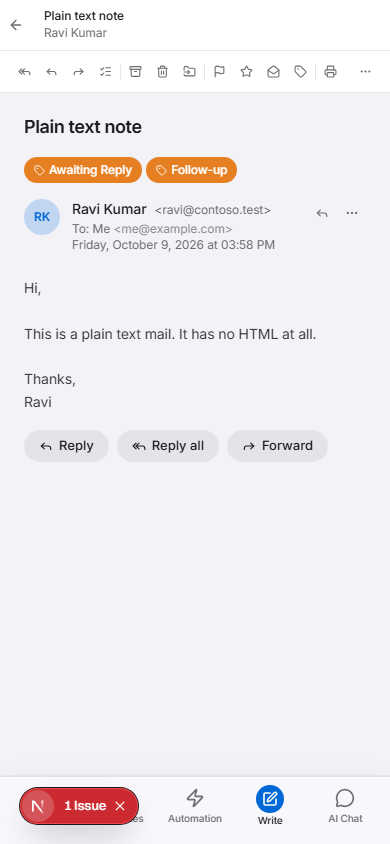
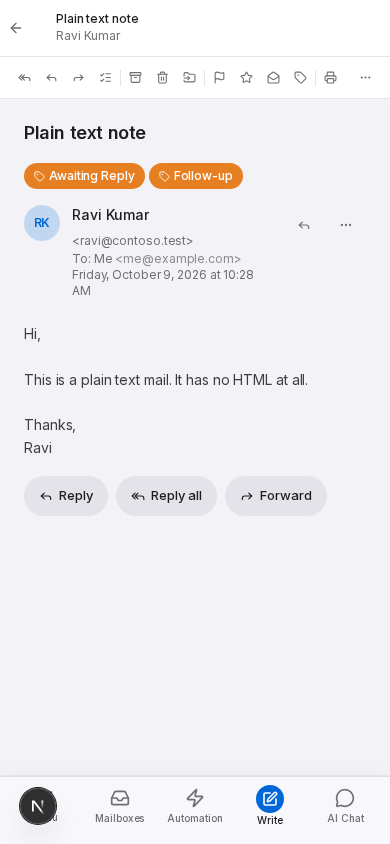
Task 3995 fix round 3 (V1): phone captures at 390 px show one row, Print in the menu
The stubbed visual rig took the pane, the toast, the move back and the
"..." menu again at 390 px, light and dark, and measured one row of
buttons in the bar of the pane. The flag-off pane was taken again with
the same rig, so the two compare. The report drops the two-row note.
The throwaway rig is deleted.

Claude-Session: https://claude.ai/code/session_01FS4QDZbEtkKAhvo52otntK

diff --git a/reports/email-done/index.html b/reports/email-done/index.html
@@ -67,6 +67,9 @@ function extra(title, note, files) {
   for (const [file, label] of files) g.appendChild(figure(file, label, false));
   out.append(h, p, g);
 }
+extra("2b. The \"...\" menu of the pane on a phone (fix round 3)",
+  "With the flag on, Print is the last item of this menu.",
+  [["pane-menu--phone-light.png", "Phone 390, light"], ["pane-menu--phone-dark.png", "Phone 390, dark"]]);
 extra("7. A call that fails", "The gateway refuses. The labels come back, and the page says why.",
   [["error--dark.png", "Dark, 1440"]]);
 extra("8. Keyboard: the focus on Done",
@@ -81,7 +84,8 @@ for (const line of [
   "Found and repaired: after Done, the reading pane kept the old labels of the open mail.",
   "The red \"1 Issue\" badge on the light phone menu comes from the development server. The capture with the flag off shows it too.",
   "Fix round 2 (2026-11-26): on a phone, Done in the bar of the pane is now an icon. The rig took the phone captures of sections 2, 5 and 6 again. The desktop bar did not change, so its captures stay.",
-  "Open defect: at 390 px the bar of the pane still has two rows. The Print icon goes to a second row. Before this round, three icons went to the second row.",
+  "Fix round 3 (2026-11-26): with the flag on, Print moves into the \"...\" menu of the pane on a phone, so the bar has one row at 390 px. The rig took the phone captures of sections 2, 5 and 6 again, light and dark, and measured one row. It took the phone captures of \"Before (flag off): the reading pane\" again with the same rig, so the two compare. The flag off keeps Print in the bar.",
+  "Fix round 3: the rig opens the mail with a tap on its row, as a member does on a phone, and the stub answers each later read with the labels of the last call.",
   "Section 6 on a phone: after Ctrl+Z the toast closes, and the labels of before return.",
   "Not opened: widths of 1280 and 1920, comfortable density, a conversation of two or more messages after Done, hover states, a real mailbox.",
 ]) { const li = document.createElement("li"); li.textContent = line; list.appendChild(li); }
